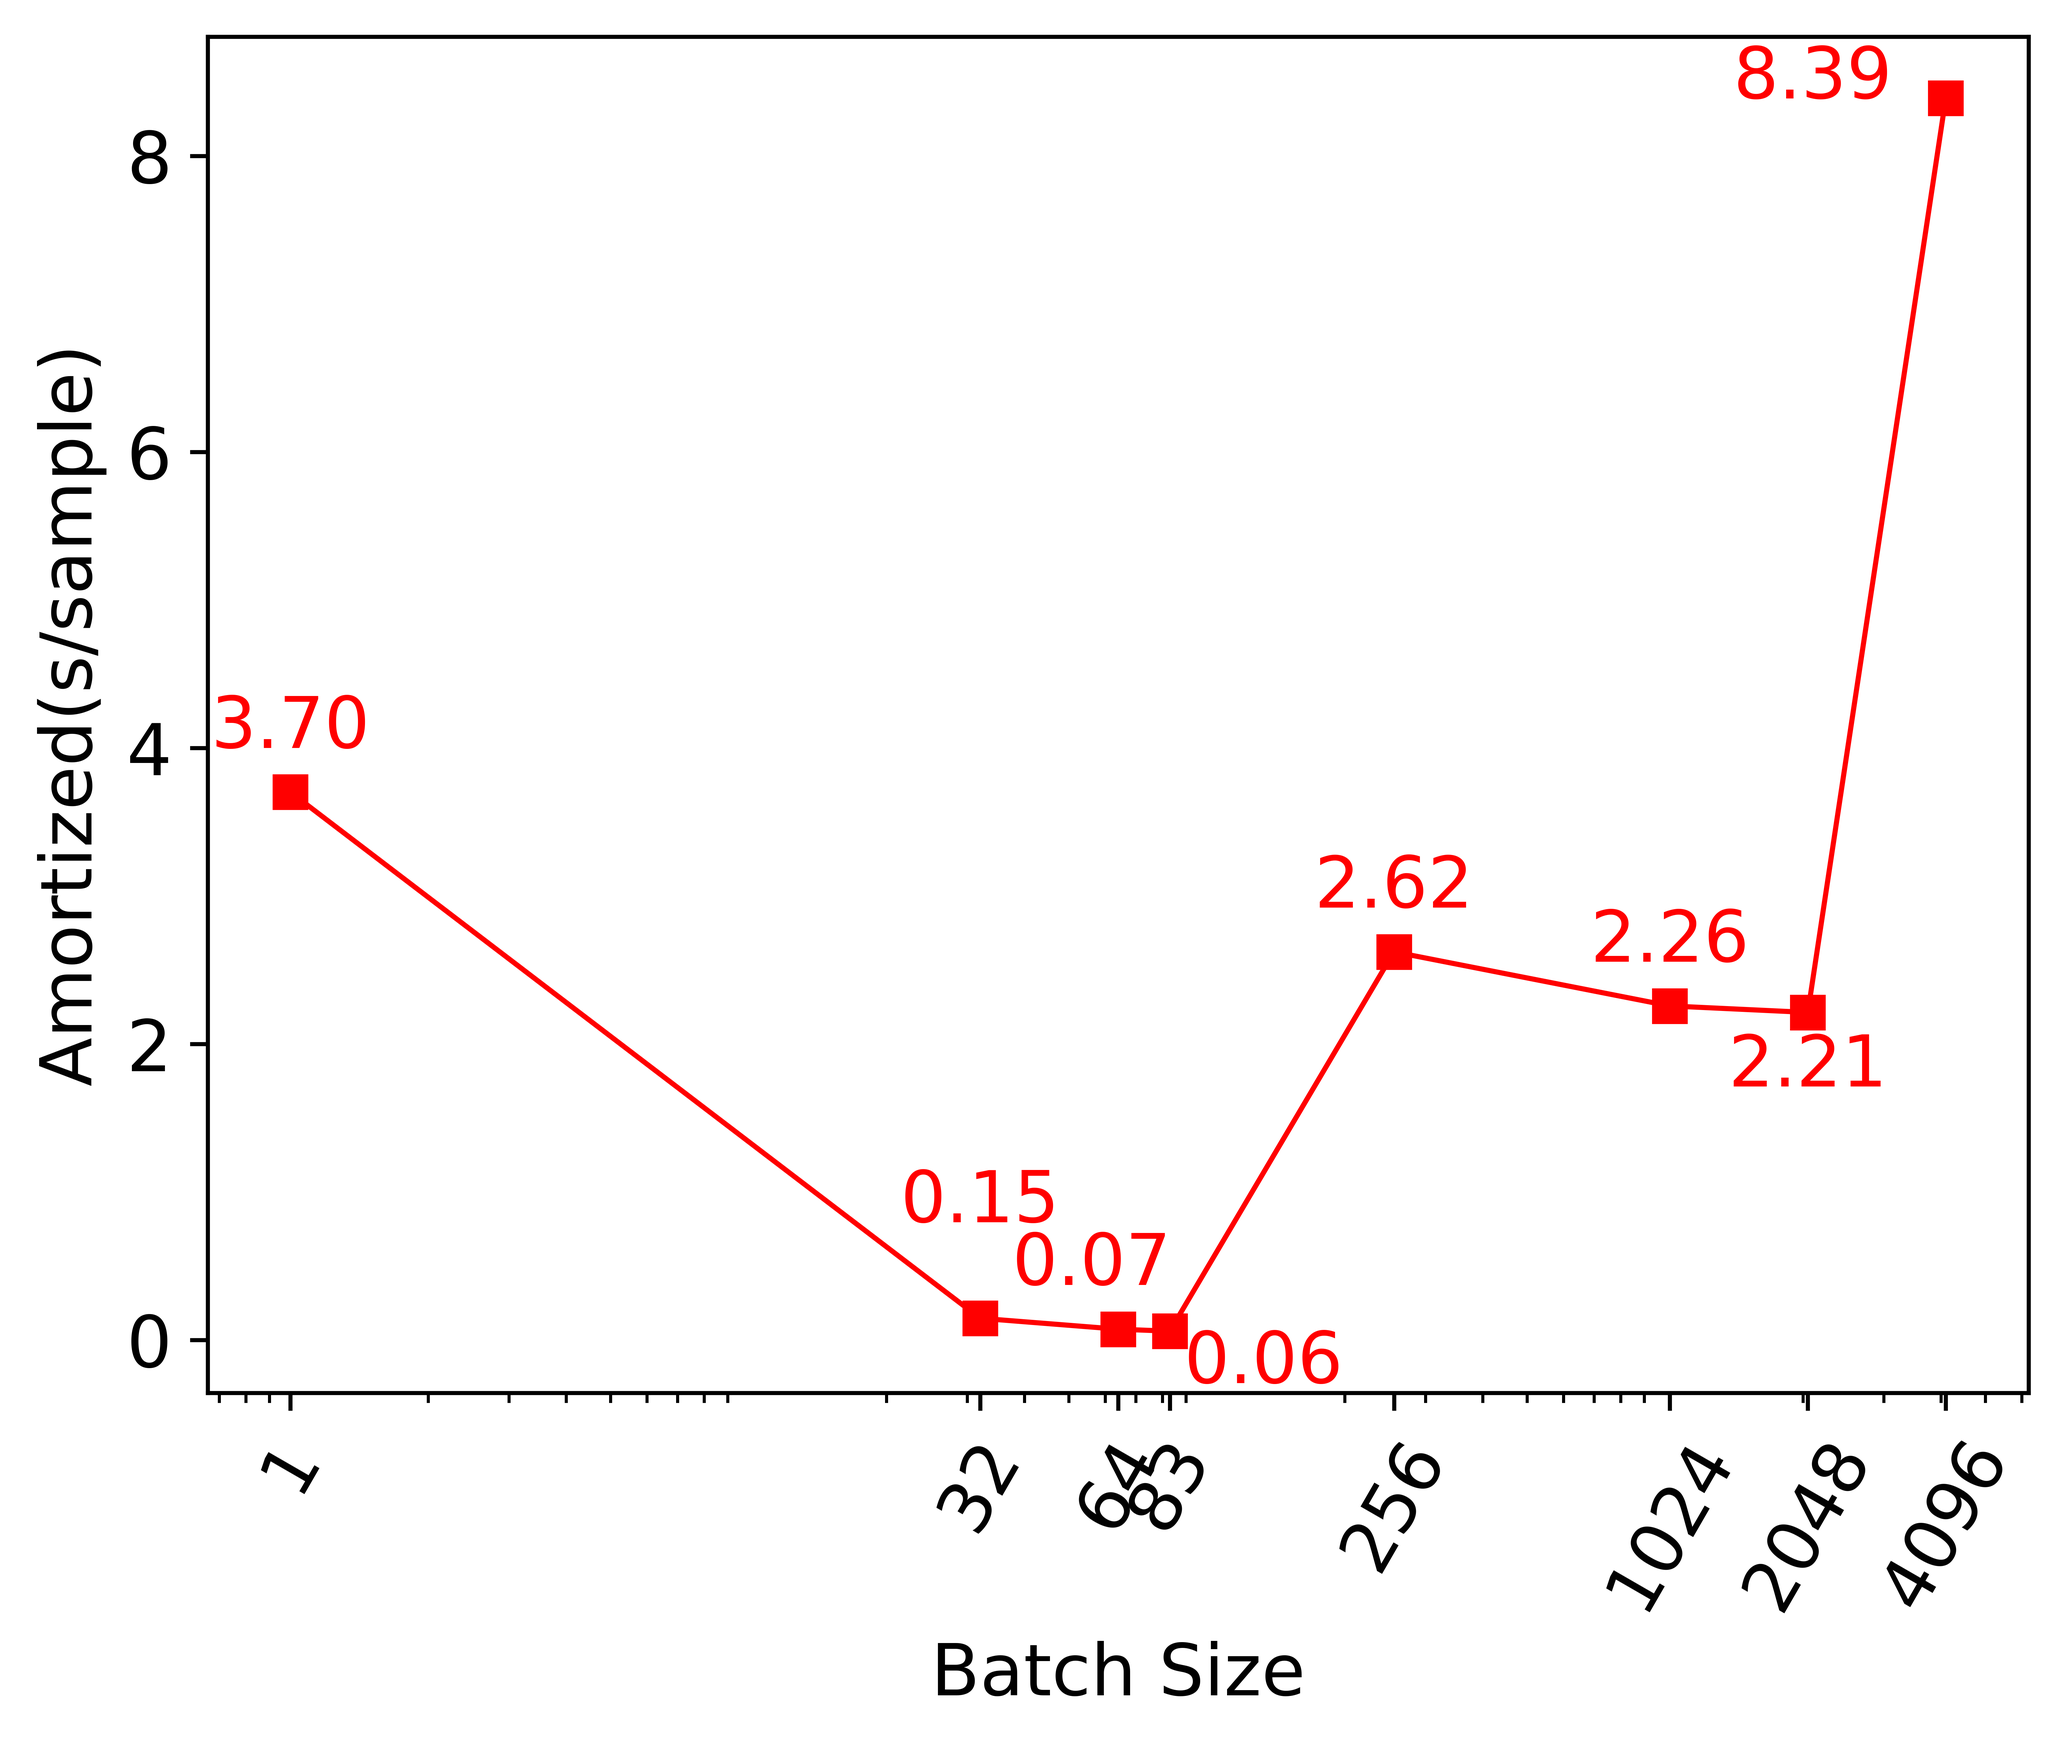
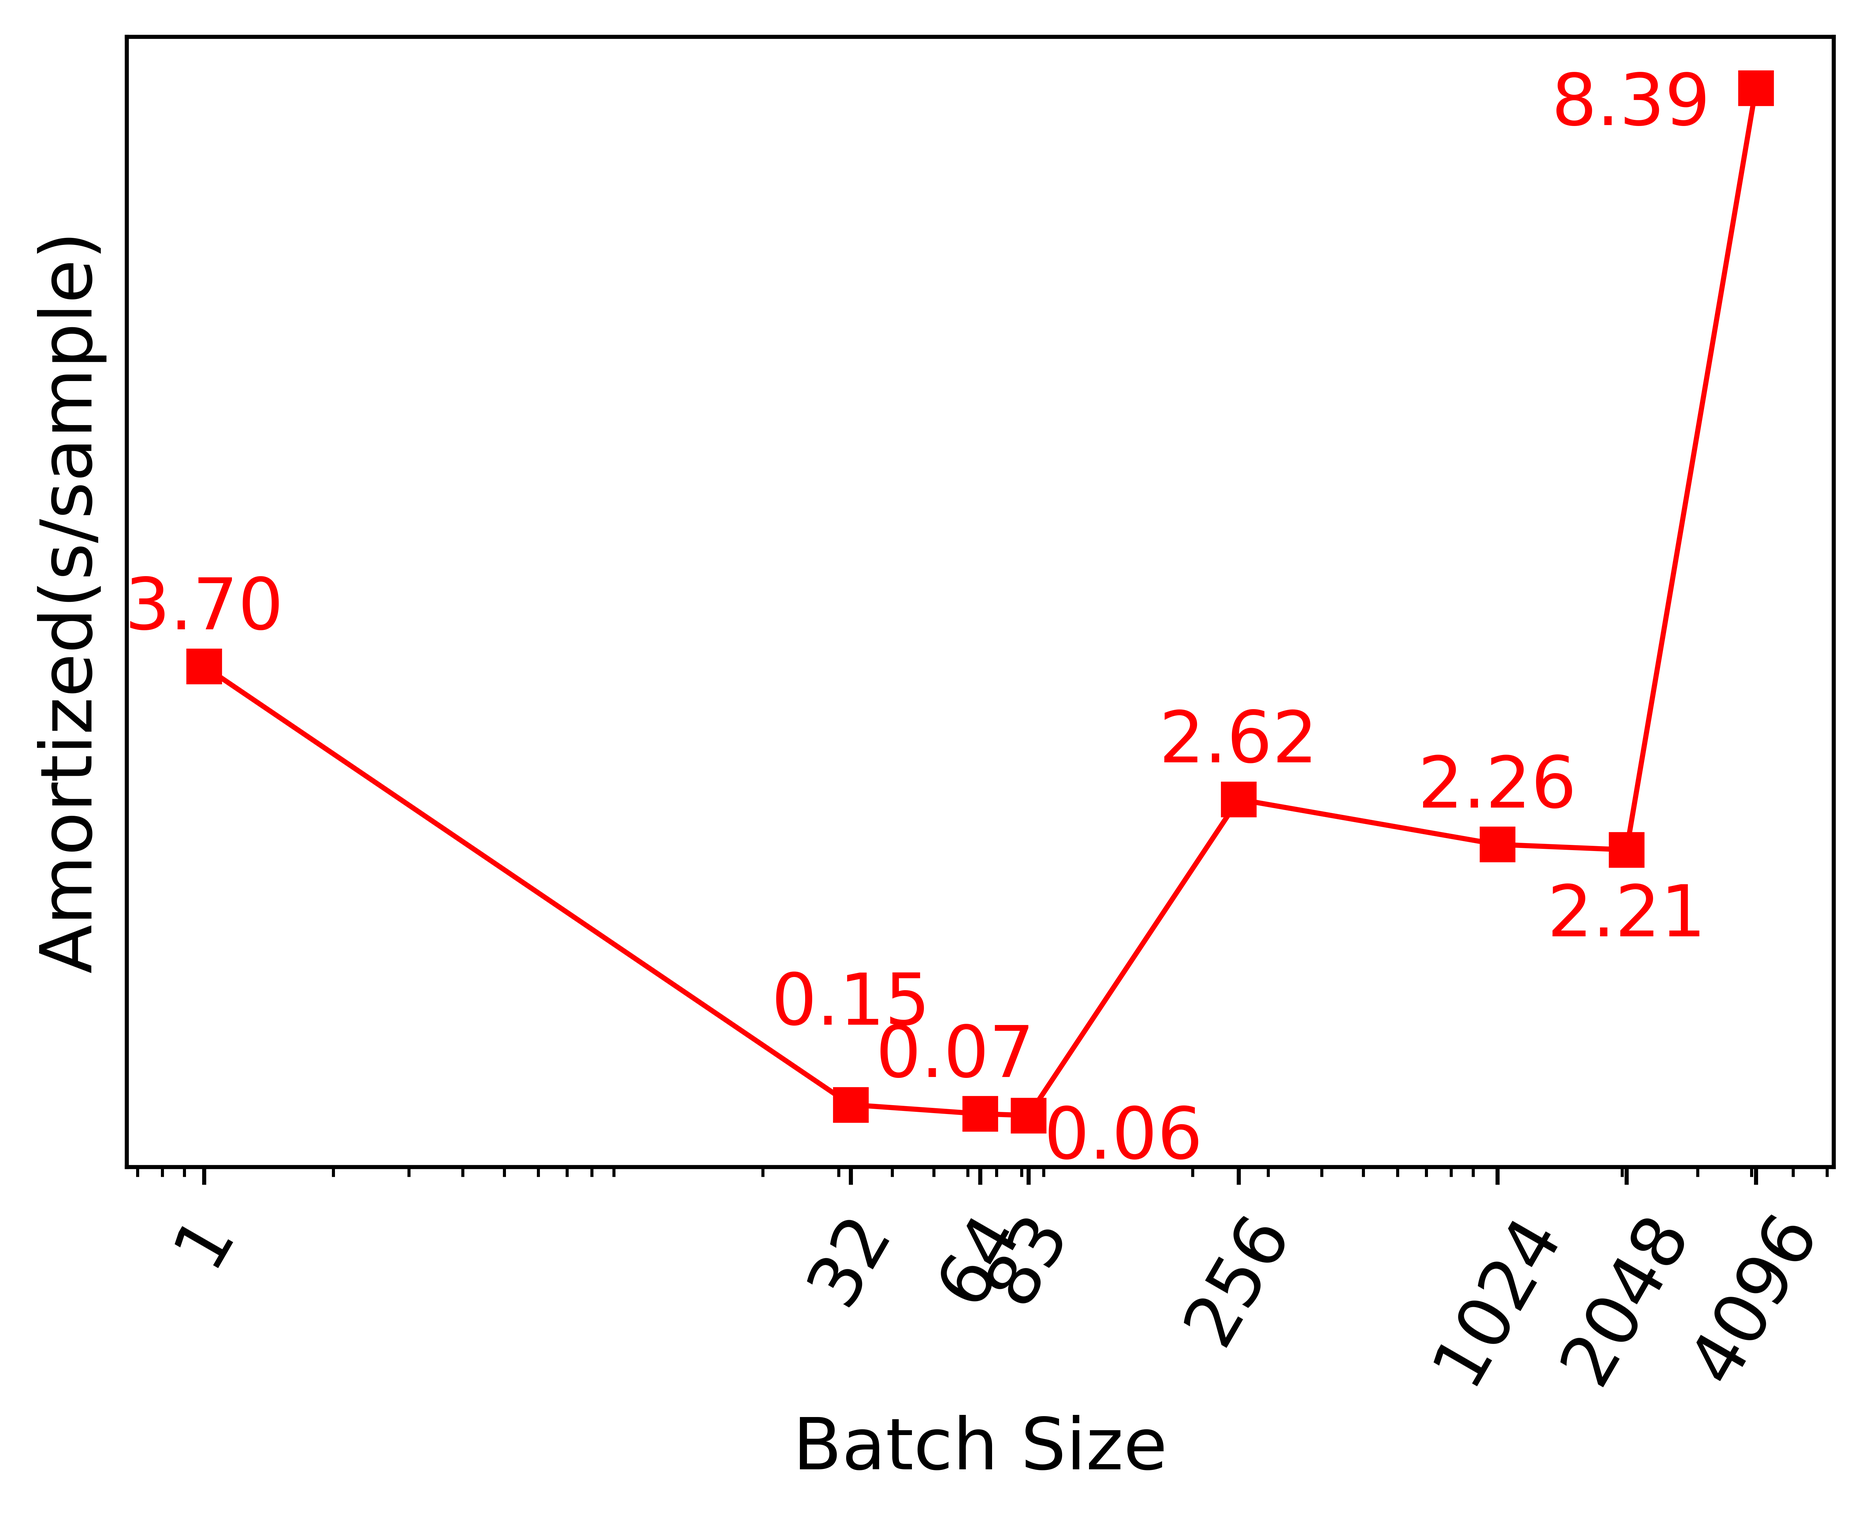
updated viz script for cryptonet

diff --git a/inference/cryptonet/data/viz.py b/inference/cryptonet/data/viz.py
@@ -8,7 +8,6 @@ font_axis = {'size': 14}
 plt.rc('font', **font)
 figsize = (6,4)
 dpi = 1200
-plt.tight_layout()
 # Define the batch values we're interested in
 batch_values = [1, 32, 64, 83, 256, 1024, 2048, 4096]
 
@@ -68,7 +67,7 @@ for x in batch_values:
     y_errors.append(last_row['StdDev'].iloc[0] / 1000.0)
 
 # Plot the results
-fig1, ax1 = plt.subplots()
+fig1, ax1 = plt.subplots(1,1,figsize=figsize)
 ax1.plot(x_values, latency, linewidth=1, color="blue", marker="o", zorder=0, label="Latency(s)")
 
 for i, y in enumerate(latency):
@@ -86,7 +85,7 @@ for i, y in enumerate(latency):
         offset_x = 50
         offset_y = -10
     if i == 4:
-        offset_x = 200
+        offset_x = 210
         offset_y = -10
     if i == 5:
         offset_x = 1000
@@ -94,7 +93,7 @@ for i, y in enumerate(latency):
         offset_x = -1100
     if i == 7:
         offset_y = -10
-        offset_x = -2000
+        offset_x = -2100
 
     ax1.text(x_values[i]+offset_x, y+offset_y, f"{y:.2f}", color="blue", ha="center", zorder=1)
 
@@ -105,10 +104,11 @@ for i,tick in enumerate(ax1.get_xticklabels()):
     tick.set_rotation(60)
 ax1.set_xlabel("Batch Size", font_axis)
 ax1.set_ylabel("Latency(s)", font_axis)
-fig1.savefig("latency.png", dpi=dpi,bbox_inches="tight")
+ax1.set_yticks([])
+fig1.savefig("latency.png", dpi=dpi, bbox_inches="tight")
 
 
-fig2, ax2 = plt.subplots()
+fig2, ax2 = plt.subplots(1,1, figsize=figsize)
 ax2.plot(x_values, amort, linewidth=1, color="red", marker="s", label="Amortized(s/sample)")
 for i,y in enumerate(amort):
     offset_x = 0
@@ -120,18 +120,18 @@ for i,y in enumerate(amort):
     if i == 2:
         offset_x = -8
     if i == 3:
-        offset_x = 50
+        offset_x = 55
         offset_y = -.35
     if i == 6:
-        offset_y = -.5
+        offset_y = -.7
     if i == 7:
         offset_x = -2000
-        offset_y = 0
+        offset_y = -.3
     ax2.text(x_values[i]+offset_x, y+offset_y, f"{y:.2f}", color="red", ha="center", zorder=1)
-
 ax2.set_xscale('log')
 ax2.set_xticks(x_values)
 ax2.set_xticklabels([str(x) for x in x_values])
+ax2.set_yticks([])
 for i,tick in enumerate(ax2.get_xticklabels()):
     tick.set_rotation(60)
 ax2.set_ylabel('Amortized(s/sample)',font_axis)
